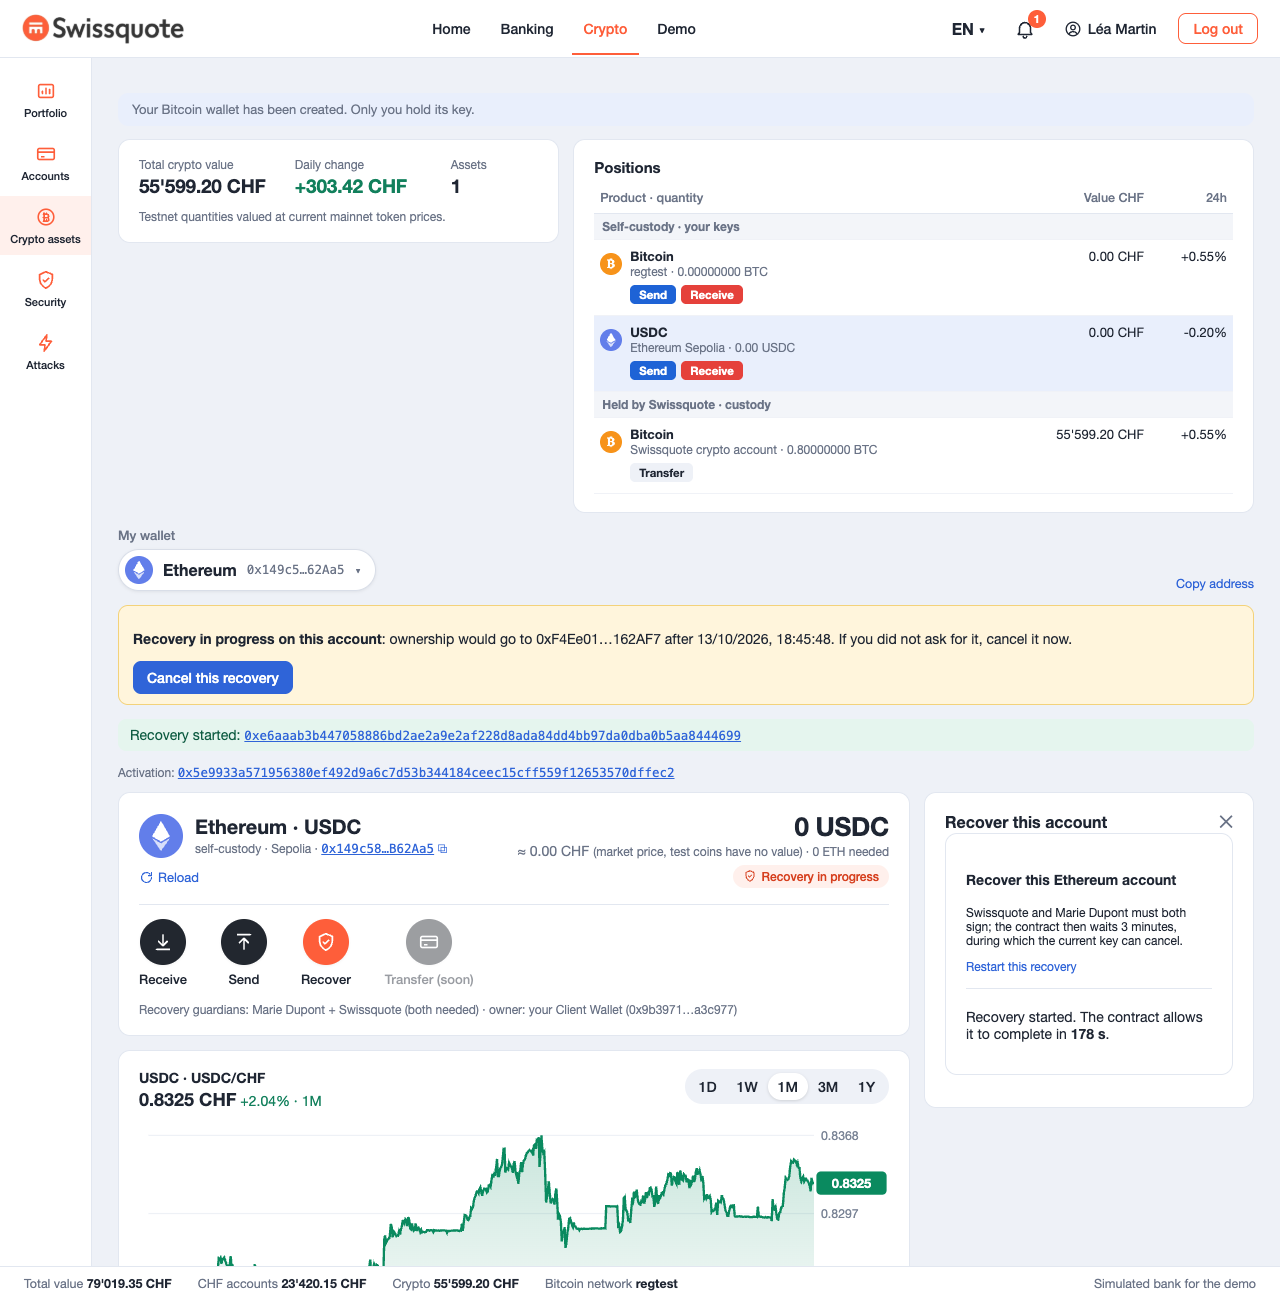
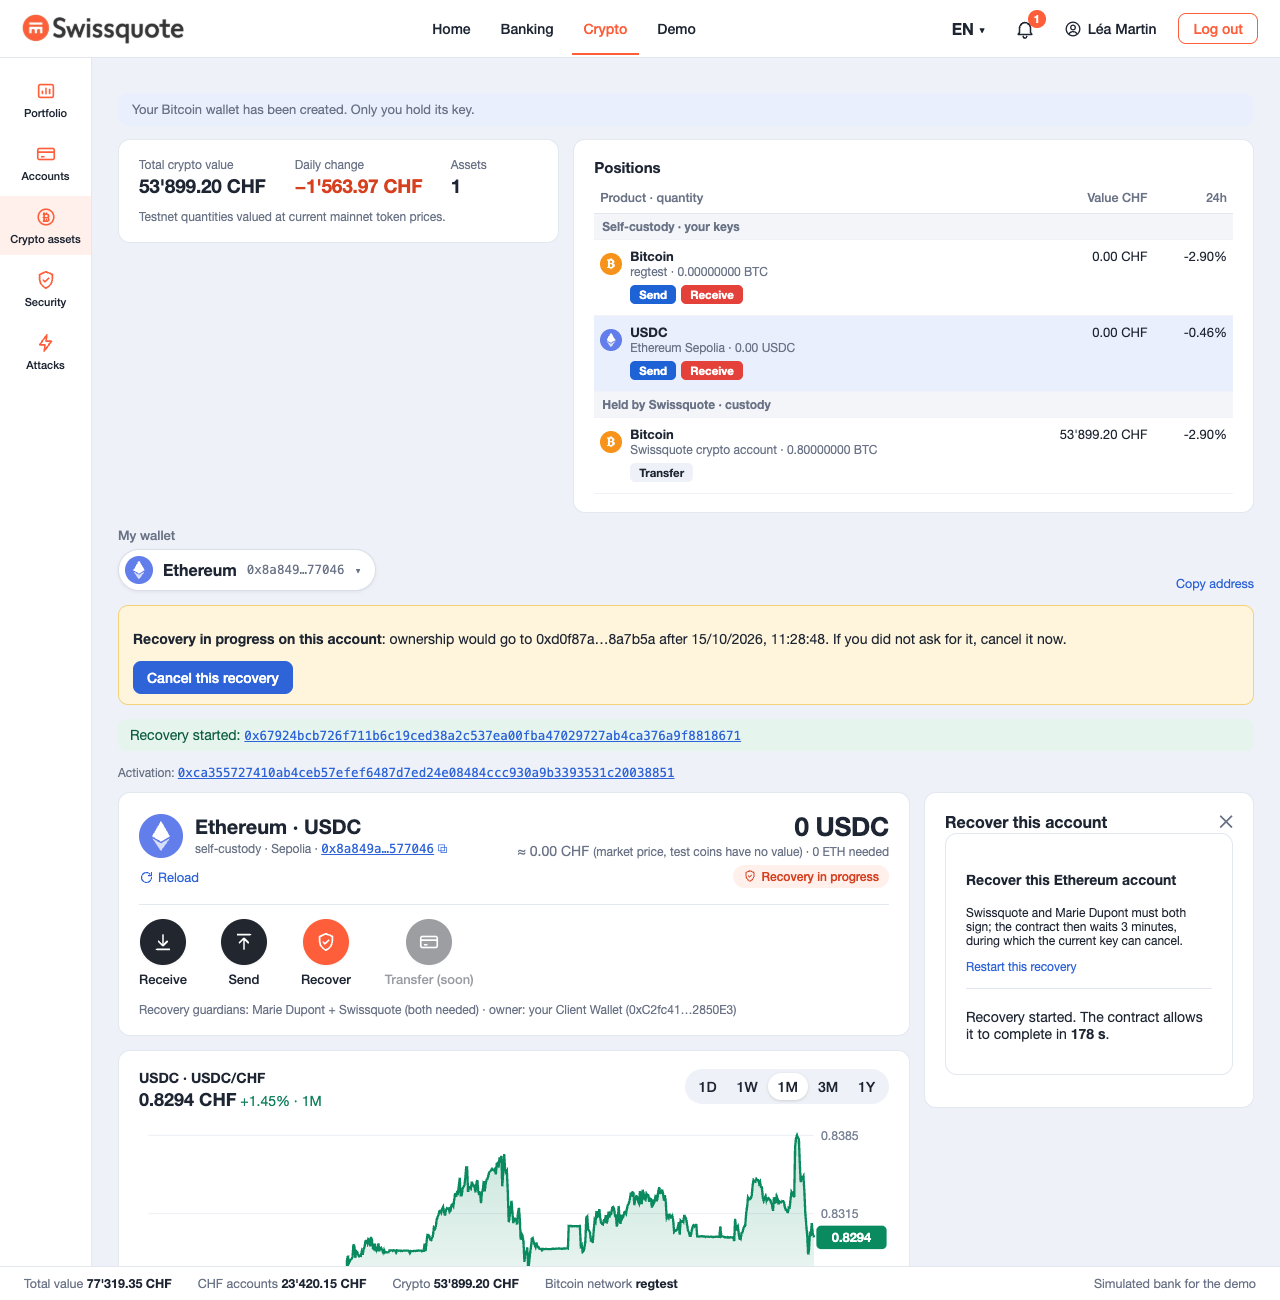
Étape 63 : envoi d'USDC avec la biométrie dans le navigateur, et deux robustesses Ethereum
validate:63 (vrai Sepolia, 5/5) : le Safe de démo est récupéré vers une
nouvelle clé biométrique, qui envoie 1 USDC par « Send USDC » (fenêtre du
Client Wallet ouverte directement, frais parrainés). buildSponsoredOp
réessaie sur AA25 (nonce périmé du nœud public) ; le Client Wallet ne
s'arrête plus sur une réponse non sérialisable. Reprend sur main ce qui
manquait des étapes 40-41 de modele-2-guardians. validate:54 9/9.

diff --git a/scripts/validate/etape-63-evm-usdc-ui.ts b/scripts/validate/etape-63-evm-usdc-ui.ts
@@ -1,0 +1,186 @@
+// Étape 63 : envoi d'USDC depuis l'interface avec la biométrie, sur le VRAI Sepolia, sans ETH (Chrome headless).
+// `validate:54` couvre création, activation, refus et recovery sur un Safe neuf, donc sans USDC. Ici : le Safe de démo
+// de CH-0003, qui détient des USDC, est récupéré vers une nouvelle clé (biométrie), puis cette clé envoie 1 USDC par
+// « Send USDC », qui prépare l'opération puis ouvre lui-même le Client Wallet (étape 35).
+// Pile isolée : bank-mock :4630 sur une COPIE de bank-mock/data (vraie clé Swissquote, compte et Safe de démo ; la passkey
+// bancaire de CH-0003 est retirée de la copie seulement, pour que le test active la sienne), Client Wallet :5230 neuf,
+// appli :5231 (signet), console du contact :5232. Les données de démo d'origine ne sont pas modifiées.
+// Prérequis : .local/signet-ui/state.json (phrase du contact de démo) ; accès à Sepolia et aux points publics de Candide.
+// Effet on-chain : le Safe de démo change de propriétaire ; la nouvelle clé n'existe que dans l'authentificateur virtuel.
+import { type ChildProcess, spawn } from "node:child_process";
+import { cpSync, readFileSync, rmSync } from "node:fs";
+import { DatabaseSync } from "node:sqlite";
+import { type BrowserContext, type Page, chromium } from "playwright-core";
+import { getAddress, parseUnits, type Address } from "viem";
+import { USDC_DECIMALS, publicClient, readState as readLatest, recoveryNonce } from "@sq/evm";
+import { evmAddressFromMnemonic } from "@sq/evm/keys";
+import { makeReport } from "./lib.ts";
+
+const BANK = "http://localhost:4630", WALLET = "http://localhost:5230", APP = "http://localhost:5231", CONSOLE = "http://localhost:5232";
+const DATA = `${process.cwd()}/.local/e2e-63`;
+const state = JSON.parse(readFileSync(".local/signet-ui/state.json", "utf8"));
+rmSync(DATA, { recursive: true, force: true });
+cpSync("bank-mock/data", `${DATA}/bank`, { recursive: true });
+{ const db = new DatabaseSync(`${DATA}/bank/bank-mock.sqlite`); db.prepare("delete from passkeys where customer_id = ?").run("CH-0003"); db.close(); }
+const procs: ChildProcess[] = [];
+const start = (cmd: string[], env: Record<string, string>, cwd = ".") => procs.push(spawn(cmd[0], cmd.slice(1), { cwd, env: { ...process.env, ...env }, stdio: "ignore", detached: true }));
+process.on("exit", () => procs.forEach((p) => { try { process.kill(-p.pid!, "SIGTERM"); } catch {} }));
+start(["npm", "run", "-s", "dev", "-w", "bank-mock"], { BANK_MOCK_PORT: "4630", BANK_MOCK_DATA: `${DATA}/bank`, BANK_MOCK_ORIGINS: `${APP},${CONSOLE}`, ALERT_INTERVAL_MS: "0", ALERT_SIGNET_INTERVAL_MS: "0" });
+start(["npm", "run", "-s", "dev", "-w", "client-wallet"], { CLIENT_WALLET_PORT: "5230", CLIENT_WALLET_DATA: `${DATA}/wallet`, VITE_WALLET_ALLOWED_ORIGINS: APP });
+start(["npx", "vite", "--port", "5231", "--strictPort"], { VITE_BTC_NETWORK: "signet", VITE_BANK_MOCK_URL: BANK, VITE_CLIENT_WALLET_URL: WALLET, VITE_GUARDIAN_CONSOLE_URL: CONSOLE }, "client");
+start(["npx", "vite", "--port", "5232", "--strictPort"], { VITE_BTC_NETWORK: "signet", VITE_BANK_MOCK_URL: BANK }, "guardian-console");
+for (const u of [`${BANK}/health`, `${WALLET}/api/wallets`, APP, CONSOLE]) for (let i = 0; i < 150; i++) { try { if ((await fetch(u)).ok) break; } catch {} await new Promise((r) => setTimeout(r, 200)); }
+
+const SHOTS = "docs/validation/captures";
+const { report, summary } = makeReport();
+const browser = await chromium.launch({ executablePath: process.env.CHROME_PATH ?? "/Applications/Google Chrome.app/Contents/MacOS/Google Chrome", headless: true });
+const errors: string[] = [], failed: string[] = [];
+const device = async () => {
+  const ctx = await browser.newContext({ viewport: { width: 1280, height: 1300 } });
+  ctx.on("page", (p) => {
+    p.on("pageerror", (e) => errors.push(e.message));
+    p.on("console", (m) => m.type() === "error" && !/Failed to load resource/.test(m.text()) && errors.push(m.text()));
+    p.on("response", (r) => { if (r.status() >= 500) failed.push(`${r.status()} ${r.url()}`); });
+  });
+  return ctx;
+};
+// Authentificateur WebAuthn virtuel avec PRF (même réglage que validate:54).
+const addAuthenticator = async (ctx: BrowserContext, p: Page) => {
+  const cdp = await ctx.newCDPSession(p);
+  await cdp.send("WebAuthn.enable");
+  await cdp.send("WebAuthn.addVirtualAuthenticator", { options: { protocol: "ctap2", transport: "internal", hasResidentKey: true, hasUserVerification: true, isUserVerified: true, automaticPresenceSimulation: true, hasPrf: true } } as any);
+};
+// Fenêtre du Client Wallet : ouverte une fois (avec son authentificateur), puis réutilisée par l'appli (window.open nommé).
+// Une passkey ne quitte pas l'onglet qui l'a créée avec son secret PRF : la fenêtre doit rester la même.
+let w: Page | null = null;
+const inWallet = async (ctx: BrowserContext, click: () => Promise<void>) => {
+  if (w && !w.isClosed()) { await click(); await w.waitForLoadState(); return w; }
+  const [p] = await Promise.all([ctx.waitForEvent("page", { timeout: 150000 }), click()]);
+  await p.waitForLoadState();
+  await addAuthenticator(ctx, p);
+  return (w = p);
+};
+const toEthereum = async (p: Page) => { await p.getByTestId("network-switcher").click(); await p.getByTestId("network-evm").click(); };
+const openCrypto = async (p: Page) => {
+  await p.getByRole("button", { name: "Crypto", exact: true }).click();
+  const locked = p.getByTestId("crypto-locked");
+  await locked.or(p.getByTestId("btc-balance")).or(p.getByPlaceholder("Marie Dupont")).first().waitFor({ timeout: 20000 });
+  if (!(await locked.isVisible())) return;
+  const enable = p.getByRole("button", { name: "Enable biometrics" });
+  await ((await enable.isVisible()) ? enable : p.getByRole("button", { name: "Unlock with biometrics" })).click();
+  await locked.waitFor({ state: "detached", timeout: 20000 });
+};
+const shot = (p: Page, n: string) => p.screenshot({ path: `${SHOTS}/etape-63-${n}.png`, fullPage: true });
+let atBlock: bigint | undefined;
+const seen = async (text: string) => { const h = text.match(/0x[0-9a-f]{64}/)?.[0] as `0x${string}` | undefined; if (h) atBlock = (await publicClient.waitForTransactionReceipt({ hash: h })).blockNumber; return h; };
+async function readState(safe: Address) { for (let i = 0; ; i++) { try { return await readLatest(safe, atBlock); } catch (e) { if (i > 15) throw e; await new Promise((r) => setTimeout(r, 2000)); } } }
+const screenOf = async (p: Page) => { await p.getByRole("heading", { name: "Confirm the Ethereum operation" }).waitFor({ timeout: 90000 }); return (await p.locator("section").first().textContent()) ?? ""; };
+
+try {
+  // --- Appareil du client : biométrie bancaire activée, wallet Bitcoin de démo connu de l'appareil (clés publiques) ---
+  const ctx = await device();
+  const app = await ctx.newPage();
+  await addAuthenticator(ctx, app);
+  await app.goto(APP);
+  await app.getByRole("button", { name: "Login", exact: true }).click();
+  await app.getByLabel("Username").fill("CH-0003");
+  await app.getByLabel("Password", { exact: true }).fill("demo0003");
+  await app.getByRole("button", { name: "Log in", exact: true }).click();
+  await openCrypto(app);
+  const token = JSON.parse(await app.evaluate(() => sessionStorage.getItem("sq-bank:session") ?? "null"))?.token;
+  const listed = (await (await fetch(`${BANK}/wallet/accounts?network=signet`, { headers: { authorization: `Bearer ${token}` } })).json()) as any;
+  const btc = listed.accounts.at(-1);
+  if (!btc) throw new Error(`no signet Bitcoin account for CH-0003 in the demo data: ${JSON.stringify(listed)}`);
+  // Comme validate:40 : un appareil qui a déjà le wallet le connaît par son stockage local (clés publiques seulement).
+  await app.evaluate(([k, v]) => localStorage.setItem(k, v), ["sq-wallet:btc:signet:CH-0003", JSON.stringify(btc)] as const);
+  await app.reload();
+  await openCrypto(app);
+  await app.getByTestId("btc-balance").waitFor({ timeout: 30000 });
+  await toEthereum(app);
+  const card = app.getByTestId("evm-card");
+  await card.getByTestId("evm-guardians").waitFor({ timeout: 60000 });
+  const safe = getAddress((await card.getByTestId("evm-safe").textContent())!.trim());
+  const before = await readState(safe);
+  const tiersEvm = getAddress(evmAddressFromMnemonic(state.tiersWords.join(" ")));
+  report("63-1", "Safe de démo de CH-0003 ouvert depuis l'interface (partie crypto déverrouillée par biométrie) : USDC présents, gardiens dont le contact de démo, seuil 2, aucune recovery en cours",
+    before.usdc >= parseUnits("1", USDC_DECIMALS) && before.threshold === 2n && before.guardians.map((a) => getAddress(a)).includes(tiersEvm) && !before.pending,
+    `Safe ${safe} ; ${before.usdc} (10^-6 USDC) ; gardiens ${before.guardians.join(", ")} ; propriétaire ${before.owners[0]} ; en cours : ${!!before.pending}`);
+  if (before.pending) throw new Error("a recovery is already pending on the demo Safe: wait for it or cancel it first");
+  const nonceBefore = await recoveryNonce(safe);
+
+  // --- Recovery vers une nouvelle clé (biométrie), comme validate:54, mais sur un Safe qui détient des fonds ---
+  await card.getByRole("button", { name: "Recover", exact: true }).click();
+  const rec = card.getByTestId("evm-recovery");
+  await rec.getByPlaceholder("Last name").fill("Martin");
+  await rec.getByPlaceholder("Date of birth (YYYY-MM-DD)").fill("1992-03-21");
+  await rec.getByPlaceholder("Code received by SMS").fill("246810");
+  await rec.getByRole("button", { name: "Verify my identity" }).click();
+  await inWallet(ctx, () => rec.getByRole("button", { name: "Create a new Client Wallet" }).click());
+  await w!.getByRole("button", { name: "Generate my secret phrase" }).click({ timeout: 30000 });
+  await w!.getByLabel("I have written my phrase down in a safe place").check();
+  await w!.getByRole("button", { name: "Send my public key to Swissquote" }).click();
+  await inWallet(ctx, () => rec.getByRole("button", { name: "Get its Ethereum address" }).click({ timeout: 30000 }));
+  await w!.getByRole("button", { name: "Send my Ethereum address" }).click({ timeout: 30000 });
+  const newOwner = getAddress((await rec.getByTestId("evm-new-owner").textContent({ timeout: 30000 }))!.trim());
+  await rec.getByRole("button", { name: "Request Swissquote's signature" }).click();
+  await rec.getByRole("button", { name: /^Send the request to/ }).click();
+  const link = (await rec.getByTestId("evm-relay-link").textContent({ timeout: 30000 }))!.trim();
+  const tctx = await device();
+  const tiers = await tctx.newPage();
+  await tiers.goto(link);
+  await tiers.getByTestId("evm-new-owner").waitFor({ timeout: 30000 });
+  await tiers.getByPlaceholder("word1 word2 … word24").fill(state.tiersWords.join(" "));
+  await tiers.getByRole("button", { name: /Sign as trusted contact/ }).click();
+  await tiers.getByTestId("relay-sent").waitFor({ timeout: 90000 });
+  await rec.getByRole("button", { name: "Fetch the trusted contact's signature" }).click();
+  await rec.getByRole("button", { name: "Start the recovery" }).click();
+  await inWallet(ctx, () => card.getByRole("button", { name: "Sign with my Client Wallet" }).click({ timeout: 120000 }));
+  await screenOf(w!);
+  await w!.getByRole("button", { name: "Confirm and sign" }).click();
+  await seen((await card.getByText(/^Recovery started: 0x/).textContent({ timeout: 240000 })) ?? "");
+  const fin = rec.getByRole("button", { name: "Complete the recovery" });
+  await fin.waitFor({ timeout: 420000 });
+  await fin.click();
+  await inWallet(ctx, () => card.getByRole("button", { name: "Sign with my Client Wallet" }).click({ timeout: 120000 }));
+  await screenOf(w!);
+  await w!.getByRole("button", { name: "Confirm and sign" }).click();
+  const finalized = (await card.getByText(/^Recovery completed: 0x/).textContent({ timeout: 240000 })) ?? "";
+  await seen(finalized);
+  const after = await readState(safe);
+  report("63-2", "Recovery du Safe de démo (Swissquote avec sa vraie clé + contact) vers une nouvelle clé biométrique ; les USDC restent sur le Safe",
+    after.owners.length === 1 && getAddress(after.owners[0]) === newOwner && !after.pending && after.usdc === before.usdc,
+    `${finalized.trim()} ; propriétaire ${after.owners[0]} ; solde ${after.usdc}`);
+  await inWallet(ctx, () => card.getByRole("button", { name: "Sign with my Client Wallet" }).click({ timeout: 120000 }));
+  await screenOf(w!);
+  await w!.getByRole("button", { name: "Confirm and sign" }).click();
+  await card.getByText(/^Leftover guardian signatures invalidated: 0x/).waitFor({ timeout: 240000 });
+  await seen((await card.getByTestId("evm-last-tx").textContent()) ?? "");
+  const nonceAfter = await recoveryNonce(safe, atBlock);
+  report("63-3", "La nouvelle clé invalide les signatures de gardiens restantes", nonceAfter >= nonceBefore + 2n, `nonce ${nonceBefore} -> ${nonceAfter}`);
+
+  // --- Envoi d'1 USDC : « Send USDC » prépare l'opération puis ouvre lui-même le Client Wallet (étape 35). S'il était
+  // bloqué, le bandeau « Sign with my Client Wallet » resterait comme repli : on note ce qui s'est passé.
+  const usdcBefore = (await readState(safe)).usdc;
+  await card.getByRole("button", { name: "Send", exact: true }).click();
+  await card.getByPlaceholder("0x…").fill(tiersEvm);
+  await card.getByPlaceholder("1").fill("1");
+  const reloaded = w!.waitForEvent("load", { timeout: 90000 }).then(() => true, () => false);
+  await card.getByRole("button", { name: "Send USDC" }).click();
+  const direct = await reloaded;
+  if (!direct) await inWallet(ctx, () => card.getByRole("button", { name: "Sign with my Client Wallet" }).click());
+  const sendScreen = await screenOf(w!);
+  await shot(w!, "1-envoi-usdc-wallet");
+  await w!.getByRole("button", { name: "Confirm and sign" }).click();
+  const sent = (await card.getByText(/^USDC sent: 0x/).textContent({ timeout: 240000 })) ?? "";
+  await seen(sent);
+  const usdcAfter = (await readState(safe)).usdc;
+  const eth = await publicClient.getBalance({ address: safe, blockNumber: atBlock });
+  await shot(app, "2-envoi-usdc");
+  report("63-4", "Envoi d'1 USDC depuis l'interface : écran du Client Wallet en clair, signé par biométrie, frais parrainés (0 ETH sur le Safe)",
+    usdcBefore - usdcAfter === parseUnits("1", USDC_DECIMALS) && sendScreen.includes("Send 1 USDC") && sendScreen.includes("paid by a sponsor") && eth === 0n,
+    `${sent.trim()} ; solde ${usdcBefore} -> ${usdcAfter} (10^-6 USDC) ; ETH ${eth} ; fenêtre ouverte directement par « Send USDC » : ${direct ? "oui" : "non (repli par le bandeau)"} ; écran : ${sendScreen.replace(/\s+/g, " ").slice(0, 200)}`);
+} finally {
+  await browser.close();
+}
+report("63-x", "Aucune erreur dans les consoles des navigateurs, aucune réponse 5xx", errors.length === 0 && failed.length === 0, `${errors.join(" | ") || "aucune"} ; 5xx : ${failed.join(", ") || "aucune"}`);
+process.exit(summary() ? 0 : 1);

diff --git a/packages/evm/src/index.ts b/packages/evm/src/index.ts
@@ -125,7 +125,13 @@ export async function buildSponsoredOp(acc: { safe: Address; owner: Address }, c
   const deployed = await isDeployed(acc.safe);
   if (!deployed && safeAddressOf(acc.owner) !== getAddress(acc.safe)) throw new Error("undeployed account that does not match its owner");
   const account = deployed ? new SafeAccountV0_3_0(acc.safe) : SafeAccountV0_3_0.initializeNewAccount([acc.owner]);
-  let op = await account.createUserOperation(calls, NODE_URL, BUNDLER_URL);
+  // Juste après une opération, le nœud public (répartiteur de charge) peut encore donner l'ancien nonce du Safe : le
+  // bundler refuse alors l'estimation (AA25, observé à l'étape 63). On réessaie le temps que le nœud rattrape.
+  let op;
+  for (let i = 0; ; i++) {
+    try { op = await account.createUserOperation(calls, NODE_URL, BUNDLER_URL); break; }
+    catch (e: any) { if (e?.aaCode !== "AA25" || i >= 5) throw e; await new Promise((r) => setTimeout(r, 3000)); }
+  }
   ({ userOperation: op } = await new Erc7677Paymaster(BUNDLER_URL).createPaymasterUserOperation(account, op, BUNDLER_URL));
   return opToJson(op);
 }

diff --git a/client-wallet/src/server.ts b/client-wallet/src/server.ts
@@ -305,7 +305,9 @@ async function api(req: IncomingMessage, body: any): Promise<unknown> {
 }
 
 const server = createServer(async (req, res) => {
-  const send = (status: number, body: unknown) => res.writeHead(status, { "content-type": "application/json" }).end(JSON.stringify(body));
+  // Sérialisé AVANT l'en-tête : une réponse non sérialisable devient une erreur 500 au lieu d'arrêter le processus
+  // (un second writeHead lèverait ERR_HTTP_HEADERS_SENT hors de tout try ; observé à l'étape 63).
+  const send = (status: number, body: unknown) => { const text = JSON.stringify(body); res.writeHead(status, { "content-type": "application/json" }).end(text); };
   if (!HOSTS.has(String(req.headers.host))) return send(403, { error: `host rejected: ${req.headers.host}` });
   if (!req.url?.startsWith("/api/")) return vite.middlewares(req, res);
   // Aucune en-tête CORS : seule l'interface du wallet (même origine) ou un outil local peut appeler l'API.

diff --git a/docs/validation/etape-63.md b/docs/validation/etape-63.md
@@ -1,0 +1,61 @@
+# Étape 63 — Envoi d'USDC avec la biométrie dans le navigateur, et deux robustesses Ethereum
+
+Reprend, sur `main`, ce qui manquait encore du travail fait en parallèle sur la branche `modele-2-guardians`
+(ses étapes 40 et 41, commits `81d337e` et `13373a2`). Le reste de ce travail était déjà dans `main`, souvent en mieux :
+refus d'un seuil de gardiens < 2 (étape 48, liste blanche plus stricte), correction de `.map(getAddress)` (étape 54),
+parcours Ethereum biométrique (`validate:54`), `validate:6:ui` biométrique (étape 45).
+
+## Ce qui manquait
+
+- **Aucun test navigateur n'envoyait d'USDC depuis l'étape 36** (biométrie). `validate:54` déploie un Safe neuf, donc
+  sans USDC. Or l'envoi est le geste de base du wallet, et l'étape 35 l'a modifié : « Send USDC » prépare l'opération
+  puis ouvre lui-même le Client Wallet, ce qui peut être bloqué par le navigateur (cas observé à l'étape 17, essai 1).
+- **AA25 `invalid account nonce`** : juste après une opération, le nœud public de Sepolia (répartiteur de charge) peut
+  encore donner l'ancien nonce du Safe ; le bundler refuse alors l'estimation de l'opération suivante. Observé sur
+  `modele-2-guardians` (opération préparée quelques secondes après une activation).
+- **Arrêt du processus du Client Wallet** : `send` écrivait l'en-tête 200 avant de sérialiser la réponse. Une réponse
+  non sérialisable (observé avec un `bigint` sur `modele-2-guardians`) faisait écrire un second en-tête, qui levait
+  `ERR_HTTP_HEADERS_SENT` hors de tout `try` : le wallet s'arrêtait.
+
+## Modifications
+
+- `packages/evm/src/index.ts` : `buildSponsoredOp` réessaie jusqu'à 5 fois (3 s) sur AA25 seulement.
+- `client-wallet/src/server.ts` : réponse sérialisée avant l'en-tête ; une erreur de sérialisation donne une 500.
+- `scripts/validate/etape-63-evm-usdc-ui.ts` (`npm run validate:63`) : pile isolée dont le bank-mock tourne sur une
+  **copie** de `bank-mock/data` (vraie clé Swissquote, compte et Safe de démo de CH-0003). Dans la copie seulement, la
+  passkey bancaire de CH-0003 est retirée pour que le test active la sienne (authentificateur virtuel avec PRF).
+  Le Safe de démo, qui détient des USDC, est récupéré vers une nouvelle clé biométrique, puis cette clé envoie 1 USDC.
+
+## Validation exécutée
+
+| Commande | Résultat observé |
+| --- | --- |
+| `npm run validate:63` (vrai Sepolia) | 5/5 au premier essai (`etape-63-sortie.txt`) |
+| `npm run typecheck` ; `validate:48` ; `validate:inv5` | succès ; 20/20 ; 4/4 (`etape-63-regressions-sortie.txt`) |
+| `npm run validate:54` (vrai Sepolia) | 9/9 |
+
+| # | Critère | Observé |
+| --- | --- | --- |
+| 63-1 | Safe de démo ouvert depuis l'interface après déverrouillage biométrique de la partie crypto : USDC, contact gardien, seuil 2 | `0x2929…23AA`, 52 USDC |
+| 63-2 | Recovery (Swissquote avec sa vraie clé + contact) vers une nouvelle clé biométrique, USDC conservés | [finalisation](https://sepolia.etherscan.io/tx/0xbb4ea39690ba9b0f30201475b51521a2878e7e4b0da0389055ff4c0cc22d9793), propriétaire `0xea12…574f` |
+| 63-3 | Signatures de gardiens restantes invalidées | nonce 22 → 24 |
+| 63-4 | « Send USDC » ouvre lui-même le Client Wallet ; écran « Send 1 USDC », frais parrainés ; signé par biométrie | [envoi](https://sepolia.etherscan.io/tx/0x8abd579b6d2a7e0788fd527643a2e67339e2720bff9ba0449e8bae4eef3b1737), 52 → 51 USDC, 0 ETH, fenêtre ouverte directement : oui |
+| 63-x | Aucune erreur de console, aucune réponse 5xx | aucune |
+
+## Non validé
+
+- Le correctif de `send` n'a pas de reproduction sur les routes actuelles (aucune ne renvoie de `bigint`) : il est
+  défensif, vérifié par le typecheck et les parcours ci-dessus, pas par un test qui provoque l'erreur.
+- La nouvelle tentative sur AA25 n'est pas journalisée : on ne sait pas si elle a servi pendant ces essais.
+- Fenêtre du Client Wallet **neuve** après « Send USDC » : le test réutilise la fenêtre ouverte plus tôt (une passkey ne
+  quitte pas son onglet avec son secret PRF). Si le navigateur bloquait une fenêtre neuve, le bandeau « Sign with my
+  Client Wallet » resterait comme repli (lu dans le code, non exercé).
+- Touch ID réel (étape 59 : vérification manuelle).
+
+## Effet sur la démo
+
+Le Safe de démo `0x2929…23AA` appartient maintenant à `0xea12…574f`, une clé qui n'existait que dans l'authentificateur
+virtuel du test : elle ne peut plus signer. Pour le rendre à un wallet utilisable par Touch ID : recovery depuis
+l'interface (3 min), c'est-à-dire l'histoire de la démo. Le registre de `bank-mock/data` (non modifié par le test) indique
+encore l'ancien propriétaire jusqu'à la prochaine recovery ou synchronisation ; Swissquote relit de toute façon la chaîne
+avant de signer.
